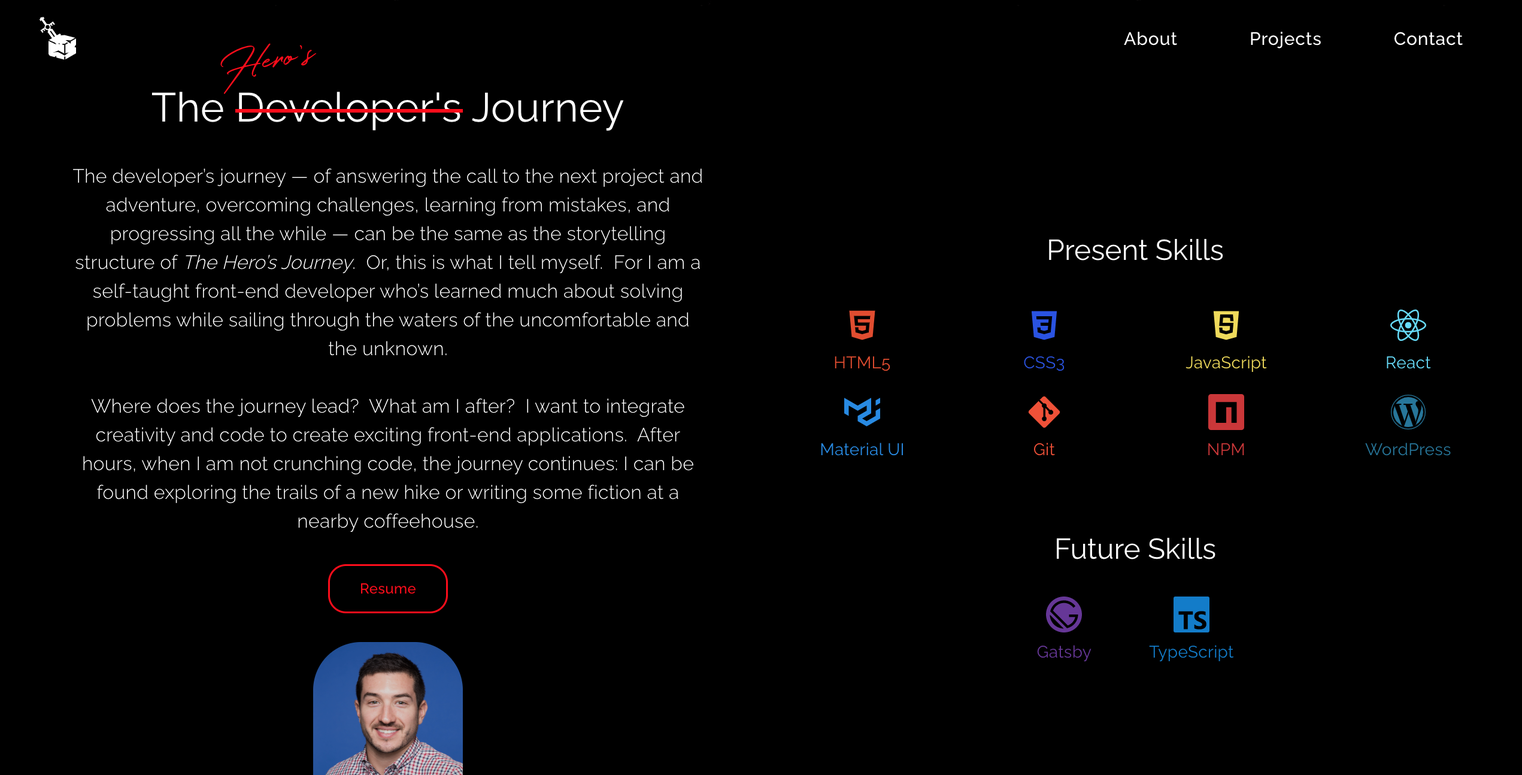
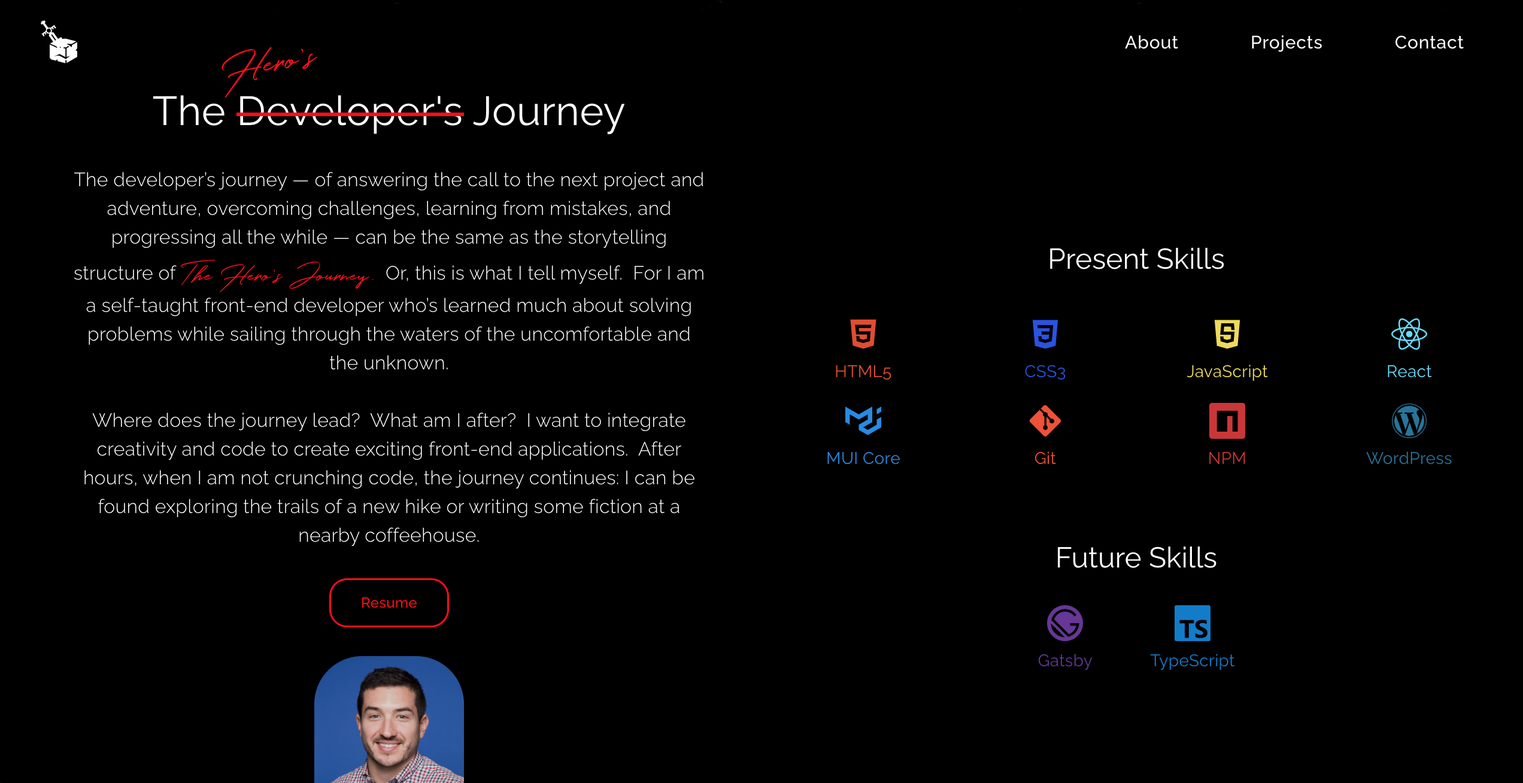
added text to PortfolioPage Component

diff --git a/src/components/pages/PortfolioPage.js b/src/components/pages/PortfolioPage.js
@@ -61,6 +61,7 @@ const PageImage = styled(Box) `
   display: block;
   height: 400px;
   border: 3px solid #fff;
+  border-radius: 5px;
   object-fit: cover;
   opacity: 0.8;
 `;
@@ -69,6 +70,7 @@ const MobileImage = styled(Box) `
   display: block;
   height: 400px;
   border: 3px solid #fff;
+  border-radius: 5px;
   object-fit: contain;
   opacity: 0.8;
 `;
@@ -127,18 +129,17 @@ const CodeLink = styled(Link) `
 
 `;
 
-const ChallengeImage = styled(Box) `
-  height: 200px;
-  width: 150px;
-  object-fit: cover;
-  overflow: hidden;
-  transition: transform 1s ease-in-out;
-  border-radius: 10px;
+const PortfolioSpan = styled(Box) `
 
-  &:hover {
-    transform: scale(1.1);
-  }
+  display: inline;
+  background-color: rgba(255, 255, 255, 0.8);
+  font-weight: 500;
+  color: #212121;
+
+  padding: 2px 5px;
+
 `;
+
 
 const PortfolioPage = () => {
 
@@ -147,12 +148,12 @@ const PortfolioPage = () => {
       <Box sx={{ position: "relative", backgroundColor: theme => theme.palette.primary.main, overflow: "hidden", py: 10 }}>
 
         <ForestBackground></ForestBackground>
-        <Stack sx={{ position: "relative", textAlign: "center", px: 3 }} direction="column" justifyContent="center" alignItems="center">
+        <Stack sx={{ position: "relative", textAlign: "center", px: { xs: 2, md: 7 } }} direction="column" justifyContent="center" alignItems="center">
 
           <PortfolioImageSwipe />
 
           <Stack direction="column" justifyContent="center" alignItems="center" spacing={5}>
-            <Typography variant="h3">The Developer's Portfolio</Typography>
+            <Typography variant="h3">The Developer's Journey</Typography>
 
             <Paper sx={{ width: "350px", backgroundColor: "rgba(0, 0, 0, 0.6)", borderRadius: 5 }} elevation={10}>
               <Stack direction="row" alignItems="center" justifyContent="center">
@@ -163,14 +164,17 @@ const PortfolioPage = () => {
               </Stack>
             </Paper>
 
-            <Stack sx={{ px: 5 }} direction={{ xs: "column", md: "row" }} justifyContent="center" alignItems="center">
-              <Stack direction="column" justifyContent="center" alignItems="center" spacing={2}>
+            <Stack sx={{ width: "100%", px: 5 }} direction={{ xs: "column", md: "row" }} justifyContent="center" alignItems="center">
+              <Stack sx={{ width: { xs: "100%", md: "50%" }, textAlign: "center" }} direction="column" justifyContent="center" alignItems="center" spacing={2}>
                 <Typography color="#fff" fontWeight={500} variant="h5">The Story</Typography>
-                <Typography fontWeight={300} variant="subtitle2">This is the first sentence about the project.  This is the second sentence about the project.  This is the third sentence about the project.</Typography>
+                <Typography sx={{ px: { xs: 0, md: 5 }, lineHeight: 1.75 }} fontSize={15} fontWeight={300} variant="subtitle2">To self-brand, which was the advice I was given when creating a developer portfolio, I knew I had to somehow bring interests, hobbies, and code together in a professional way.&nbsp; But how to do it?&nbsp; I knew I loved the outdoor lifestyle.&nbsp; I loved storytelling.&nbsp; I loved programming.&nbsp; But how was I to use the three to present myself in a developer’s portfolio?</Typography>
+                <Typography sx={{ px: { xs: 0, md: 5 }, lineHeight: 1.75 }} fontSize={15} fontWeight={300} variant="subtitle2">It was at this time, when I was sitting on the question, that I was also reading Joseph Campbell’s “The Hero with a Thousand Faces.”&nbsp; Then struck inspiration.&nbsp; I saw the similarities between the footsteps of the archetypal hero’s journey and the footsteps of my own journey as a front-end developer.&nbsp; Thereafter I tailored the design, the text, and even the brand logo, the sword and the stone, into a singular, storytelling theme.
+                </Typography>
               </Stack>
-              <Stack direction="column" justifyContent="center" alignItems="center" spacing={2}>
-                <Typography color="#fff" fontWeight={500} variant="h5">Project Features / Tech</Typography>
-                <Typography fontWeight={300} variant="subtitle2">This is the first sentence about the project.  This is the second sentence about the project.  This is the third sentence about the project.</Typography>
+              <Stack sx={{ width: { xs: "100%", md: "50%" }, textAlign: "center" }} direction="column" justifyContent="center" alignItems="center" spacing={2}>
+                <Typography color="#fff" fontWeight={500} variant="h5">The Road</Typography>
+                <Typography sx={{ px: { xs: 0, md: 5 }, lineHeight: 1.75 }} fontSize={15} fontWeight={300} variant="subtitle2">The developer portfolio was constructed with the ReactJS library.&nbsp; For the styling I loaded the MUI Core framework.&nbsp; I structured the layout of the portfolio to be a single document of four components: Header, About, Projects, and Contact.&nbsp; Each project was given its own personal page (and URL) to provide further information so I handled the route matches via React Router API.</Typography>
+                <Typography sx={{ px: { xs: 0, md: 5 }, lineHeight: 1.75 }} fontSize={15} fontWeight={300} variant="subtitle2">For the portfolio’s navigation I created two components — one for the portfolio’s home and the other for the projects’ pages — which were then toggled via <PortfolioSpan>ternary operator.</PortfolioSpan>&nbsp; MUI’s built-in block components and <PortfolioSpan>styled-components</PortfolioSpan> assisted me in the structuring and the styling, alongside the <PortfolioSpan>sx</PortfolioSpan> styling prop, while the built-in <PortfolioSpan>breakpoints</PortfolioSpan> made the portfolio responsive.&nbsp; Netlify contributed with the <PortfolioSpan>stateless form handling</PortfolioSpan> as well.</Typography>
               </Stack>
             </Stack>
 
@@ -181,13 +185,15 @@ const PortfolioPage = () => {
 
             <Paper sx={{ height: "100%", backgroundColor: "rgba(0, 0, 0, 0.6)", borderRadius: 5 }} elevation={10}>
               <Stack sx={{ width: "100%", py: 4, px: 5 }} direction={{ xs: "column", md: "row" }} alignItems="center" justifyContent="center" spacing={5}>
-                <Stack sx={{ width: { xs: "100%", md: "60%"}, textAlign: "center" }} direction="column" spacing={2}>
-                  <Typography color="#fff" fontWeight="bold" variant="h6" sx={{ mb: 1 }}>Project Challenges</Typography>
-                  <Typography color="#fff" fontWeight={300} variant="subtitle2" sx={{ mb: 1 }}>This is the first sentence about the project.  This is the second sentence about the project.</Typography>
+                <Stack sx={{ width: { xs: "100%", md: "50%"}, textAlign: "center" }} direction="column" spacing={2}>
+                  <Typography color="#fff" fontWeight={500} variant="h5">The Challenege: <PortfolioSpan>MUI Core</PortfolioSpan></Typography>
+                  <Typography color="#fff" fontSize={15} fontWeight={300} variant="subtitle2" sx={{ lineHeight: 1.75 }}>Before knowing MUI Core I would use external stylesheets or CDNs (from Boostrap) for various test projects.&nbsp; So when I decided to load MUI Core to the developer portfolio because of its library — outside of knowing the basics of its styling already — I found myself confronted with some roadblocks.&nbsp; I wasn’t familiar with the API of a few block components, such as <PortfolioSpan>TextField,</PortfolioSpan> <PortfolioSpan>MobileStepper,</PortfolioSpan> <PortfolioSpan>Menu,</PortfolioSpan> and <PortfolioSpan>MenuItem;</PortfolioSpan> and I knew these were components I wanted to customize and structure inside the portfolio.&nbsp; Eventually, after scouring the MUI docs and StackOverflow, after trial and error, I was able to learn more about them and, more importantly, MUI Core.
+                  </Typography>
                 </Stack>
-                <Box sx={{ width: { xs: "100%", md: "40%"} }}>
-                  <ChallengeImage component="img" src="https://source.unsplash.com/random/2" />
-                </Box>
+                <Stack sx={{ width: { xs: "100%", md: "50%"}, textAlign: "center" }} direction="column" spacing={2}>
+                  <Typography color="#fff" fontWeight={500} variant="h5">The Challenege: <PortfolioSpan>useLocation Hook</PortfolioSpan></Typography>
+                  <Typography color="#fff" fontSize={15} fontWeight={300} variant="subtitle2" sx={{ lineHeight: 1.75 }}>After I completed the Home Component of the portfolio, I began to construct the four project pages afterward.&nbsp; But this was when I stumbled across another issue.&nbsp; After installing React Router, after declaring <PortfolioSpan>BrowserRouter</PortfolioSpan> and configuring the <PortfolioSpan>Routes,</PortfolioSpan> I found the new pages to load not at the document’s top, but somewhere at the document’s center.&nbsp; As I didn’t want the portfolio’s readers to be navigated to the center of the page, I knew I had to fix this.&nbsp; What I had to learn was the <PortfolioSpan>location</PortfolioSpan> object and <PortfolioSpan>useLocation</PortfolioSpan> hook.&nbsp; I created a utility component, RouterScroll, and declared the <PortfolioSpan>location</PortfolioSpan> object to acquire the user’s navigation history.&nbsp; Then from inside the <PortfolioSpan>useEffect</PortfolioSpan> hook, I ran method <PortfolioSpan>scrollTo</PortfolioSpan> from the <PortfolioSpan>window</PortfolioSpan> object and set the document’s coordinates to the page top, and set the <PortfolioSpan>location</PortfolioSpan> object as the dependency of the <PortfolioSpan>useEffect</PortfolioSpan> hook.&nbsp; Lastly, as I wanted this to affect the navigation of the whole portfolio, I imported the component to <PortfolioSpan>index.js</PortfolioSpan> so all of the child components could be set thereafter.</Typography>
+                </Stack>
               </Stack>
             </Paper>
 

diff --git a/src/components/pages/TeslaPage.js b/src/components/pages/TeslaPage.js
@@ -55,6 +55,8 @@ const ForestBackground = styled(Box) `
 const PageImage = styled(Box) `
   display: block;
   height: 400px;
+  border: 3px solid #E82127;
+  border-radius: 5px;
   object-fit: cover;
   opacity: 0.75;
 `;
@@ -62,6 +64,8 @@ const PageImage = styled(Box) `
 const MobileImage = styled(Box) `
   display: block;
   height: 400px;
+  border: 3px solid #E82127;
+  border-radius: 5px;
   object-fit: contain;
   opacity: 0.75;
 `;
@@ -156,12 +160,12 @@ const TeslaPage = () => {
             <Stack sx={{ px: 5, width: "100%" }} direction={{ xs: "column", md: "row" }} justifyContent="center" alignItems="center">
               <Stack sx={{ width: { xs: "100%", md: "50%" }, textAlign: "center" }} direction="column" justifyContent="center" alignItems="center" spacing={2}>
                 <Typography color="#fff" fontWeight={500} variant="h5">The Story</Typography>
-                <Typography sx={{ px: { xs: 0, md: 5 }, lineHeight: 1.75 }} fontSize={15} fontWeight={300} variant="subtitle2">For the first project I wanted to demonstrate the basic knowledge of a front-end developer: HTML, CSS, and JavaScript.&nbsp; To show this knowledge I wanted to clone the homepage of a recognizable brand — so I chose Tesla.&nbsp; Why Tesla?&nbsp; I found the UI to be simple (and not busy), but eye-catching when showcasing their product images.&nbsp; The product images are unavoidable, and I like that.&nbsp; This project mirrors the look and functionality of the Tesla homepage.
+                <Typography sx={{ px: { xs: 0, md: 5 }, lineHeight: 1.75 }} fontSize={15} fontWeight={300} variant="subtitle2">For the first project I wanted to demonstrate the basic knowledge of a front-end developer: HTML, CSS, and JavaScript.&nbsp; To show this knowledge I wanted to clone the homepage of a recognizable brand — so I chose Tesla.&nbsp; Why Tesla?&nbsp; I found the UI to be simple (and not busy), but eye-catching when showcasing their product images.&nbsp; The product images are unavoidable, and I like that.&nbsp; This application mirrors the look and functionality of the Tesla homepage.
                 </Typography>
               </Stack>
               <Stack sx={{ width: { xs: "100%", md: "50%" }, textAlign: "center" }} direction="column" justifyContent="center" alignItems="center" spacing={2}>
                 <Typography color="#fff" fontWeight={500} variant="h5">The Road</Typography>
-                <Typography sx={{ px: { xs: 0, md: 5 }, lineHeight: 1.75 }} fontSize={15} fontWeight={300} variant="subtitle2">Since I had no frameworks for this application, I utilized <TeslaSpan>ID selectors</TeslaSpan> for initializing functions and events with Javascript and <TeslaSpan>class selectors</TeslaSpan> for styling the structural elements with CSS.&nbsp; I divided the seven product categories into sections and styled all of their interior elements — containers, buttons, and text — via structural classes.&nbsp; The side menu and faded background are toggled via event listeners, and the arrow icon in the first section repositions the document via an <TeslaSpan>onClick</TeslaSpan> function.
+                <Typography sx={{ px: { xs: 0, md: 5 }, lineHeight: 1.75 }} fontSize={15} fontWeight={300} variant="subtitle2">Since I had no frameworks for this application, I utilized <TeslaSpan>ID selectors</TeslaSpan> for initializing functions and events with Javascript and <TeslaSpan>class selectors</TeslaSpan> for styling the structural elements with CSS.&nbsp; I divided the seven product categories into sections and styled all of their interior elements — containers, buttons, and text — via structural classes.&nbsp; The side menu and faded background were toggled via event listeners, and the arrow icon in the first section repositioned the document via an <TeslaSpan>onClick</TeslaSpan> function.
                 </Typography>
               </Stack>
             </Stack>
@@ -173,7 +177,7 @@ const TeslaPage = () => {
 
             <Paper sx={{ height: "100%", backgroundColor: "rgba(0, 0, 0, 0.6)", borderRadius: 5 }} elevation={10}>
               <Stack sx={{ width: "100%", textAlign: "center", py: 4, px: 5 }} direction="column" alignItems="center" justifyContent="center">
-                <Typography color="#fff" fontWeight={500} variant="h5">The Challenge</Typography>
+                <Typography color="#fff" fontWeight={500} variant="h5">The Challenge: <TeslaSpan>window.scrollY</TeslaSpan></Typography>
                 <Typography color="#fff" fontSize={15} fontWeight={300} variant="subtitle2" sx={{ lineHeight: 1.75 }}>A problem I had to overcome was the auto scroll and position lock between product sections in the Tesla homepage.&nbsp; From the portfolio itself I learned how to reposition the document based on the click of an event listener, but I was unfamiliar with the position lock of the document when the user released the scroll.&nbsp; To recreate this functionality, I had to learn the scroll offsets from the <TeslaSpan>window</TeslaSpan> object, or more specifically, the <TeslaSpan>scrollY</TeslaSpan> property.&nbsp; But the catch and the release of the user’s position within a given time was another question.&nbsp; After some time I learned to use the <TeslaSpan>setTimeout</TeslaSpan> and the <TeslaSpan>clearTimeout</TeslaSpan> functions as a means of scrolling the document to the nearest section after a pause.&nbsp; Each section was given its own conditional that checked the pixel count range, and lastly, everything was wrapped and ran inside a scroll event listener.</Typography>
               </Stack>
             </Paper>

diff --git a/src/components/ProjectSection.js b/src/components/ProjectSection.js
@@ -8,15 +8,44 @@ import ParkLogo from '../images/project-images/national-park-service-finder/nati
 import RehabLogo from '../images/project-images/rehab-typing-test/rehab-therapy-logo.png';
 import PortfolioLogo from '../images/project-images/portfolio-site/portfolio-logo.png';
 
+
 const projects = [
 
-  { id: 1, title: "NPS Finder", description: "An application for hikers and outdoor enthusiasts.  This program uses the National Park Service API & Google Maps API to find national parks and historic sites around the user’s location.", image: ParkLogo, url: "/national-park-service-finder"},
+  { id: 1, title: "NPS Finder", description: "An application for hikers and outdoor enthusiasts.  This program uses the National Park Service API & Google Maps API to find national parks and historic sites around the user’s location.", image: ParkLogo, url: "/national-park-service-finder", style: {
+    color: "#56903A",
+    border: "1.5px solid #56903A",
+    hover: {
+      border: "1.5px solid #56903A",
+      background: "rgba(86, 144, 58, 0.18)"
+    }
+  }},
 
-  { id: 2, title: "Rehab Typing Test", description: "An application for occupational therapists to assist in the rehabilitation process (typing skills).  This program calculates words-per-minute, typing accuracy, and identifies the most missed keys for the user; and then informs the therapist on assistive technology choice and treatment efficacy.", image: RehabLogo, url: "/rehab-typing-test"},
+  { id: 2, title: "Rehab Typing Test", description: "An application for occupational therapists to assist in the rehabilitation process (typing skills).  This program calculates words-per-minute, typing accuracy, and identifies the most missed keys for the user; and then informs the therapist on assistive technology choice and treatment efficacy.", image: RehabLogo, url: "/rehab-typing-test", style: {
+    color: "#2F7ABF",
+    border: "1.5px solid #2F7ABF",
+    hover: {
+      border: "1.5px solid #2F7ABF",
+      backgroundColor: "rgba(47, 122, 191, 0.18)"
+    }
+  }},
 
-  { id: 3, title: "Tesla Clone", description: "An application that demonstrates the remake of the Tesla homepage.  No frameworks.  No APIs.  Just JavaScript.", image: TeslaLogo, url: "/tesla-clone"},
+  { id: 3, title: "My Portfolio", description: "A front-end developer portfolio that’s made of ReactJS, Material UI, and \"The Hero’s Journey,\" a storytelling structure by Joseph Campbell.", image: PortfolioLogo, url: "/my-portfolio", style: {
+    color: "#FFF",
+    border: "1.5px solid #FFF",
+    hover: {
+      border: "1.5px solid #FFF",
+      backgroundColor: "rgba(255, 255, 255, 0.18)"
+    }
+  }},
 
-  { id: 4, title: "My Portfolio", description: "A front-end developer portfolio that’s made of ReactJS, Material UI, and \"The Hero’s Journey,\" a storytelling structure by Joseph Campbell.", image: PortfolioLogo, url: "/my-portfolio"}
+  { id: 4, title: "Tesla Clone", description: "An application that demonstrates the remake of the Tesla homepage.  No frameworks.  No APIs.  Just JavaScript.", image: TeslaLogo, url: "/tesla-clone", style: {
+    color: "#E82127",
+    border: "1.5px solid #E82127",
+    hover: {
+      border: "1.5px solid #E82127",
+      backgroundColor: "rgba(90, 12, 15, 0.18)"
+    }
+  }}
 
 ];
 
@@ -37,16 +66,12 @@ const ProjectLink = styled(Link) `
   display: block;
   font-size: 12px;
   font-weight: 500;
-  color: red;
   background-color: transparent;
-  border: 1.5px solid red;
   border-radius: 15px;
   padding: 10px 25px;
   text-decoration: none;
 
   &:hover {
-    background-color: rgba(255, 0, 0, 0.15);
-    border: 1.5px solid red;
     font-weight: 600;
   }
 
@@ -74,6 +99,7 @@ const StyledBox = styled(Box) `
   transform: translate(3px, -20px);
 `;
 
+console.log(projects);
 
 const ProjectSection = () => {
   return (
@@ -90,12 +116,12 @@ const ProjectSection = () => {
                   <StyledPaper elevation={10}>
                     <Stack sx={{ height: "100%", py: 5 }} justifyContent="space-between" alignItems="center" direction={{ xs: "column", md: "row" }}>
                       <Box sx={{ width: { xs: "100%", md: "50%"}, alignItems: "center" }}>
-                        <ProjectImage component="img" src={project.image}></ProjectImage>
+                        <ProjectImage component="img" src={project.image} />
                       </Box>
                       <Stack sx={{ width: { xs: "100%", md: "50%"}, textAlign: "center" }} direction="column" justifyContent="center" alignItems="center" spacing={2}>
                         <Typography color="#fff" fontWeight={500} variant="h5">{project.title}</Typography>
-                        <Typography sx={{ lineHeight: 1.5 }} color="#fff" fontWeight={300} variant="body2">{project.description}</Typography>
-                        <ProjectLink to={project.url}>View Project</ProjectLink>
+                        <Typography sx={{ lineHeight: 1.75 }} color="#fff" fontWeight={300} variant="body2">{project.description}</Typography>
+                        <ProjectLink sx={project.style} to={project.url}>View Project</ProjectLink>
                       </Stack>
                     </Stack>
                   </StyledPaper>

diff --git a/src/components/NavPage.js b/src/components/NavPage.js
@@ -13,9 +13,45 @@ const StyledFade = styled(Fade) `
 
 `;
 
-const PageLink = styled(Link) `
+const ParkPageLink = styled(Link) `
+
+ color: #56903A;
+ font-size: 14px;
+ text-decoration: none;
+
+  &:hover {
+    font-weight: bold;
+  }
+
+`;
+
+const TypingPageLink = styled(Link) `
+
+ color: #2F7ABF;
+ font-size: 14px;
+ text-decoration: none;
+
+  &:hover {
+    font-weight: bold;
+  }
+
+`;
+
+const PortfolioPageLink = styled(Link) `
 
  color: #fff;
+ font-size: 14px;
+ text-decoration: none;
+
+  &:hover {
+    font-weight: bold;
+  }
+
+`;
+
+const TeslaPageLink = styled(Link) `
+
+ color: #E82127;
  font-size: 14px;
  text-decoration: none;
 
@@ -51,10 +87,10 @@ const NavPage = () => {
           <Box sx={{ display: { xs: "none", md: "block" } }}>
             <Button size="large" id="fade-button" aria-controls={open ? 'fade-menu' : undefined} aria-haspopup="true" aria-expanded={open ? 'true' : undefined} onClick={handleClick}>Other Projects</Button>
             <Menu id="fade-menu" MenuListProps={{'aria-labelledby': 'fade-button'}} anchorEl={anchorEl} open={open} onClose={handleClose} TransitionComponent={StyledFade}>
-              <MenuItem onClick={handleClose}><PageLink to="/national-park-service-finder">NPS Finder</PageLink></MenuItem>
-              <MenuItem onClick={handleClose}><PageLink to="/rehab-typing-test">Rehab Typing Test</PageLink></MenuItem>
-              <MenuItem onClick={handleClose}><PageLink to="/tesla-clone">Tesla Clone</PageLink></MenuItem>
-              <MenuItem onClick={handleClose}><PageLink to="/my-portfolio">My Portfolio</PageLink></MenuItem>
+              <MenuItem onClick={handleClose}><ParkPageLink to="/national-park-service-finder">NPS Finder</ParkPageLink></MenuItem>
+              <MenuItem onClick={handleClose}><TypingPageLink to="/rehab-typing-test">Rehab Typing Test</TypingPageLink></MenuItem>
+              <MenuItem onClick={handleClose}><PortfolioPageLink to="/my-portfolio">My Portfolio</PortfolioPageLink></MenuItem>
+              <MenuItem onClick={handleClose}><TeslaPageLink to="/tesla-clone">Tesla Clone</TeslaPageLink></MenuItem>
             </Menu>
           </Box>
         </Stack>

diff --git a/src/components/AboutSection.js b/src/components/AboutSection.js
@@ -62,7 +62,7 @@ const AboutSection = () => {
             <Typography variant="h4">The <StyledBox></StyledBox>Developer's Journey</Typography>
           </Box>
           <Typography sx={{ lineHeight: 1.5, px: 5 }} fontWeight={300} variant="body1">The developer’s journey — of answering the call to the next project and adventure, overcoming challenges, learning from mistakes, and progressing all the while — can be the same as the storytelling structure of <span style={{ color: "red", fontFamily: "Holland", fontSize: "22px" }}>The Hero’s Journey.</span>&nbsp; Or, this is what I tell myself.&nbsp; For I am a self-taught front-end developer who’s learned much about solving problems while sailing through the waters of the uncomfortable and the unknown.</Typography>
-          <Typography sx={{ lineHeight: 1.5, px: 5 }} fontWeight={300} variant="body1">Where does the journey lead?&nbsp; What am I after?&nbsp; I want to integrate creativity and code to create exciting front-end products.&nbsp; After hours, when I am not crunching code, the journey continues: I can be found exploring the trails of a new hike or writing some fiction at a nearby coffeehouse.</Typography>
+          <Typography sx={{ lineHeight: 1.5, px: 5 }} fontWeight={300} variant="body1">Where does the journey lead?&nbsp; What am I after?&nbsp; I want to integrate creativity and code to create exciting front-end applications.&nbsp; After hours, when I am not crunching code, the journey continues: I can be found exploring the trails of a new hike or writing some fiction at a nearby coffeehouse.</Typography>
           <ResumeLink to="/resume">Resume</ResumeLink>
           <Box component="img" src={personalPic} alt="this is me" sx={{ width: "125px", height: "150px", borderRadius: 10, opacity: 0.85 }}></Box>
         </Stack>

diff --git a/src/App.js b/src/App.js
@@ -31,12 +31,12 @@ function App() {
         <Box sx={flexColumn}>
           { location.pathname === "/" ? ( <NavHome /> ) : ( <NavPage />) }
             <Routes>
-                <Route exact path="/" element={<Homepage />} />
-                <Route exact path="/national-park-service-finder" element={<ParkPage />} />
-                <Route exact path="/rehab-typing-test" element={<TypingPage />} />
-                <Route exact path="/my-portfolio" element={<PortfolioPage />} />
-                <Route exact path="/tesla-clone" element={<TeslaPage />} />
-                <Route exact path="/resume" element={<ResumePage />} />
+              <Route exact path="/" element={<Homepage />} />
+              <Route exact path="/national-park-service-finder" element={<ParkPage />} />
+              <Route exact path="/rehab-typing-test" element={<TypingPage />} />
+              <Route exact path="/my-portfolio" element={<PortfolioPage />} />
+              <Route exact path="/tesla-clone" element={<TeslaPage />} />
+              <Route exact path="/resume" element={<ResumePage />} />
             </Routes>
           <Footer />
         </Box>

diff --git a/src/components/Footer.js b/src/components/Footer.js
@@ -9,9 +9,9 @@ const Footer = () => {
     <Box sx={{ ...flexColumn, width: "100%", backgroundColor: theme => theme.palette.secondary.main, zIndex: 5 }}>
       <Container maxWidth="xl">
         <Stack sx={{ pt: 2, height: "75px" }} justifyContent="center" alignItems="center" direction="row" spacing={2}>
-          <Link href="https://github.com/seanberry89" target="_blank"><FaGithub size={25}/></Link>
-          <Link href="https://www.linkedin.com/in/sean-berry-62b237a1/" target="_blank"><FaLinkedin size={25}/></Link>
-          <Link href="https://open.spotify.com/user/jwgcbhtw5l9lca8xw50ogzrzc" target="_blank"><FaSpotify size={25}/></Link>
+          <Link href="https://github.com/seanberry89" target="_blank" rel="noopener"><FaGithub size={25}/></Link>
+          <Link href="https://www.linkedin.com/in/sean-berry-62b237a1/" target="_blank" rel="noopener"><FaLinkedin size={25}/></Link>
+          <Link href="https://open.spotify.com/user/jwgcbhtw5l9lca8xw50ogzrzc" target="_blank" rel="noopener"><FaSpotify size={25}/></Link>
         </Stack>
       </Container>
     </Box>

diff --git a/src/components/pages/ParkPage.js b/src/components/pages/ParkPage.js
@@ -70,6 +70,8 @@ const ForestBackground = styled(Box) `
 const PageImage = styled(Box) `
   display: block;
   height: 400px;
+  border: 3px solid #56903A;
+  border-radius: 5px;
   object-fit: cover;
   opacity: 0.75;
 `;
@@ -77,6 +79,8 @@ const PageImage = styled(Box) `
 const MobileImage = styled(Box) `
   display: block;
   height: 400px;
+  border: 3px solid #56903A;
+  border-radius: 5px;
   object-fit: contain;
   opacity: 0.75;
 `;

diff --git a/src/components/pages/Homepage.js b/src/components/pages/Homepage.js
@@ -10,12 +10,12 @@ import { flexColumn } from '../../theme/CustomTheme';
 const Homepage = () => {
   return (
     <Box sx={flexColumn}>
-        <HeroSection />
-        <AboutSection />
-        <ProjectSection />
-        <ContactSection />
+      <HeroSection />
+      <AboutSection />
+      <ProjectSection />
+      <ContactSection />
     </Box>
-  )
-}
+  );
+};
 
 export default Homepage;

diff --git a/src/utils/RouterScroll.js b/src/utils/RouterScroll.js
@@ -6,12 +6,14 @@ const RouterScroll = ({children}) => {
   const location = useLocation();
 
   useEffect(() => {
+
     window.scrollTo(0, 0);
-  }, [location])
+
+  }, [location]);
 
   return (
     <Fragment>{children}</Fragment>
-  )
-}
+  );
+};
 
 export default RouterScroll;
